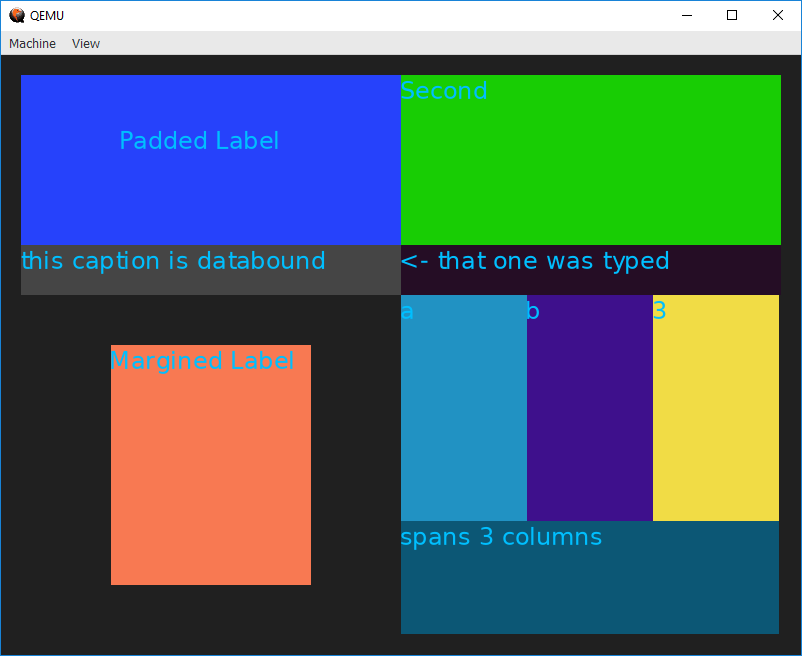
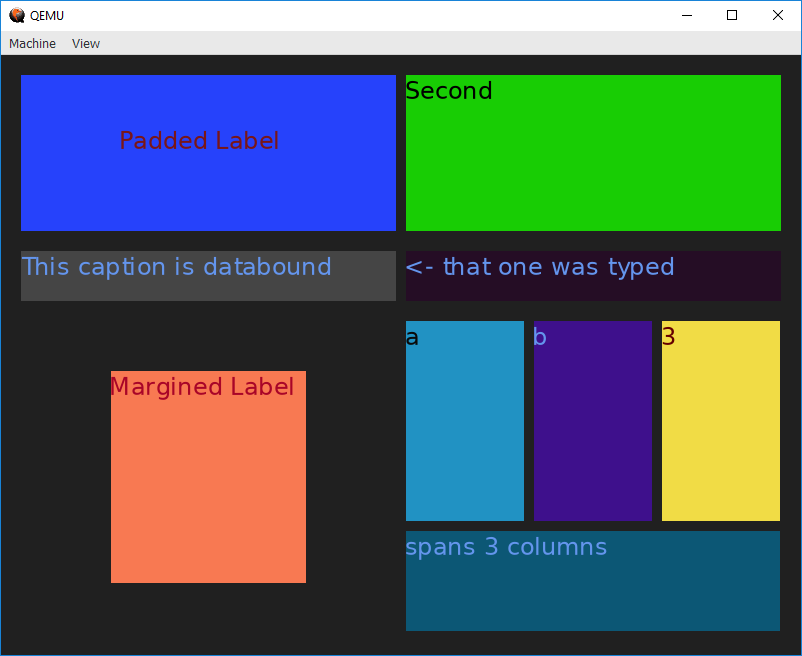
Updated grid screenshot

Changed region(s): [[0.0, 0.122, 0.9975, 0.9756], [0.1247, 0.5183, 0.4052, 0.8841], [0.1559, 0.1829, 0.3429, 0.2439]]

diff --git a/src/applications/dsky/main.cpp b/src/applications/dsky/main.cpp
@@ -83,6 +83,7 @@ public:
     (items 
         (label (caption "Padded Label")
             (padding (vertical 50) (horizontal 100))
+            (font-colour (rgb 122 22 23))
             (background (rgb 38 66 251)))
         (label (caption "Second")
             (background (rgb 24 205 4))
@@ -98,6 +99,7 @@ public:
 
         (label (caption "Margined Label")
             (background (rgb 248 121 82))
+            (font-colour (rgb 169 5 40))
             (margins (vertical 50) (horizontal 90))
             (meta (grid (row 2))))
 
@@ -117,11 +119,13 @@ public:
 
             (items 
                 (label (caption "a")
+                    (font-colour (rgb 10 10 10))
                     (background (rgb 33 146 195)))
                 (label (caption "b")
                     (background (rgb 62 16 140))
                     (meta (grid (column 1))))
                 (label (caption "3")
+                    (font-colour (rgb 100 0 0))
                     (background (rgb 241 220 69))
                     (meta (grid (column 2))))
 
@@ -141,9 +145,6 @@ public:
 
             if (topLevel->type == SExpType::List) {
                 auto root = static_cast<List*>(topLevel)->items[0];
-
-                char* test = "hello, world";
-                captionTest.setValue(test);
 
                 auto bindy = [&](auto binding, std::string_view name) {
                     using BindingType = typename std::remove_reference<decltype(*binding)>::type::ValueType;

diff --git a/src/services/apollo/lib/elements/label.cpp b/src/services/apollo/lib/elements/label.cpp
@@ -117,6 +117,10 @@ namespace Apollo::Elements {
             captionText = binding.getValue();
         }
 
+        if (captionText == nullptr) {
+            return;
+        }
+
         auto bounds = getBounds();
         captionLayout = renderer->layoutText(captionText, bounds.width, fontColour);
     } 
